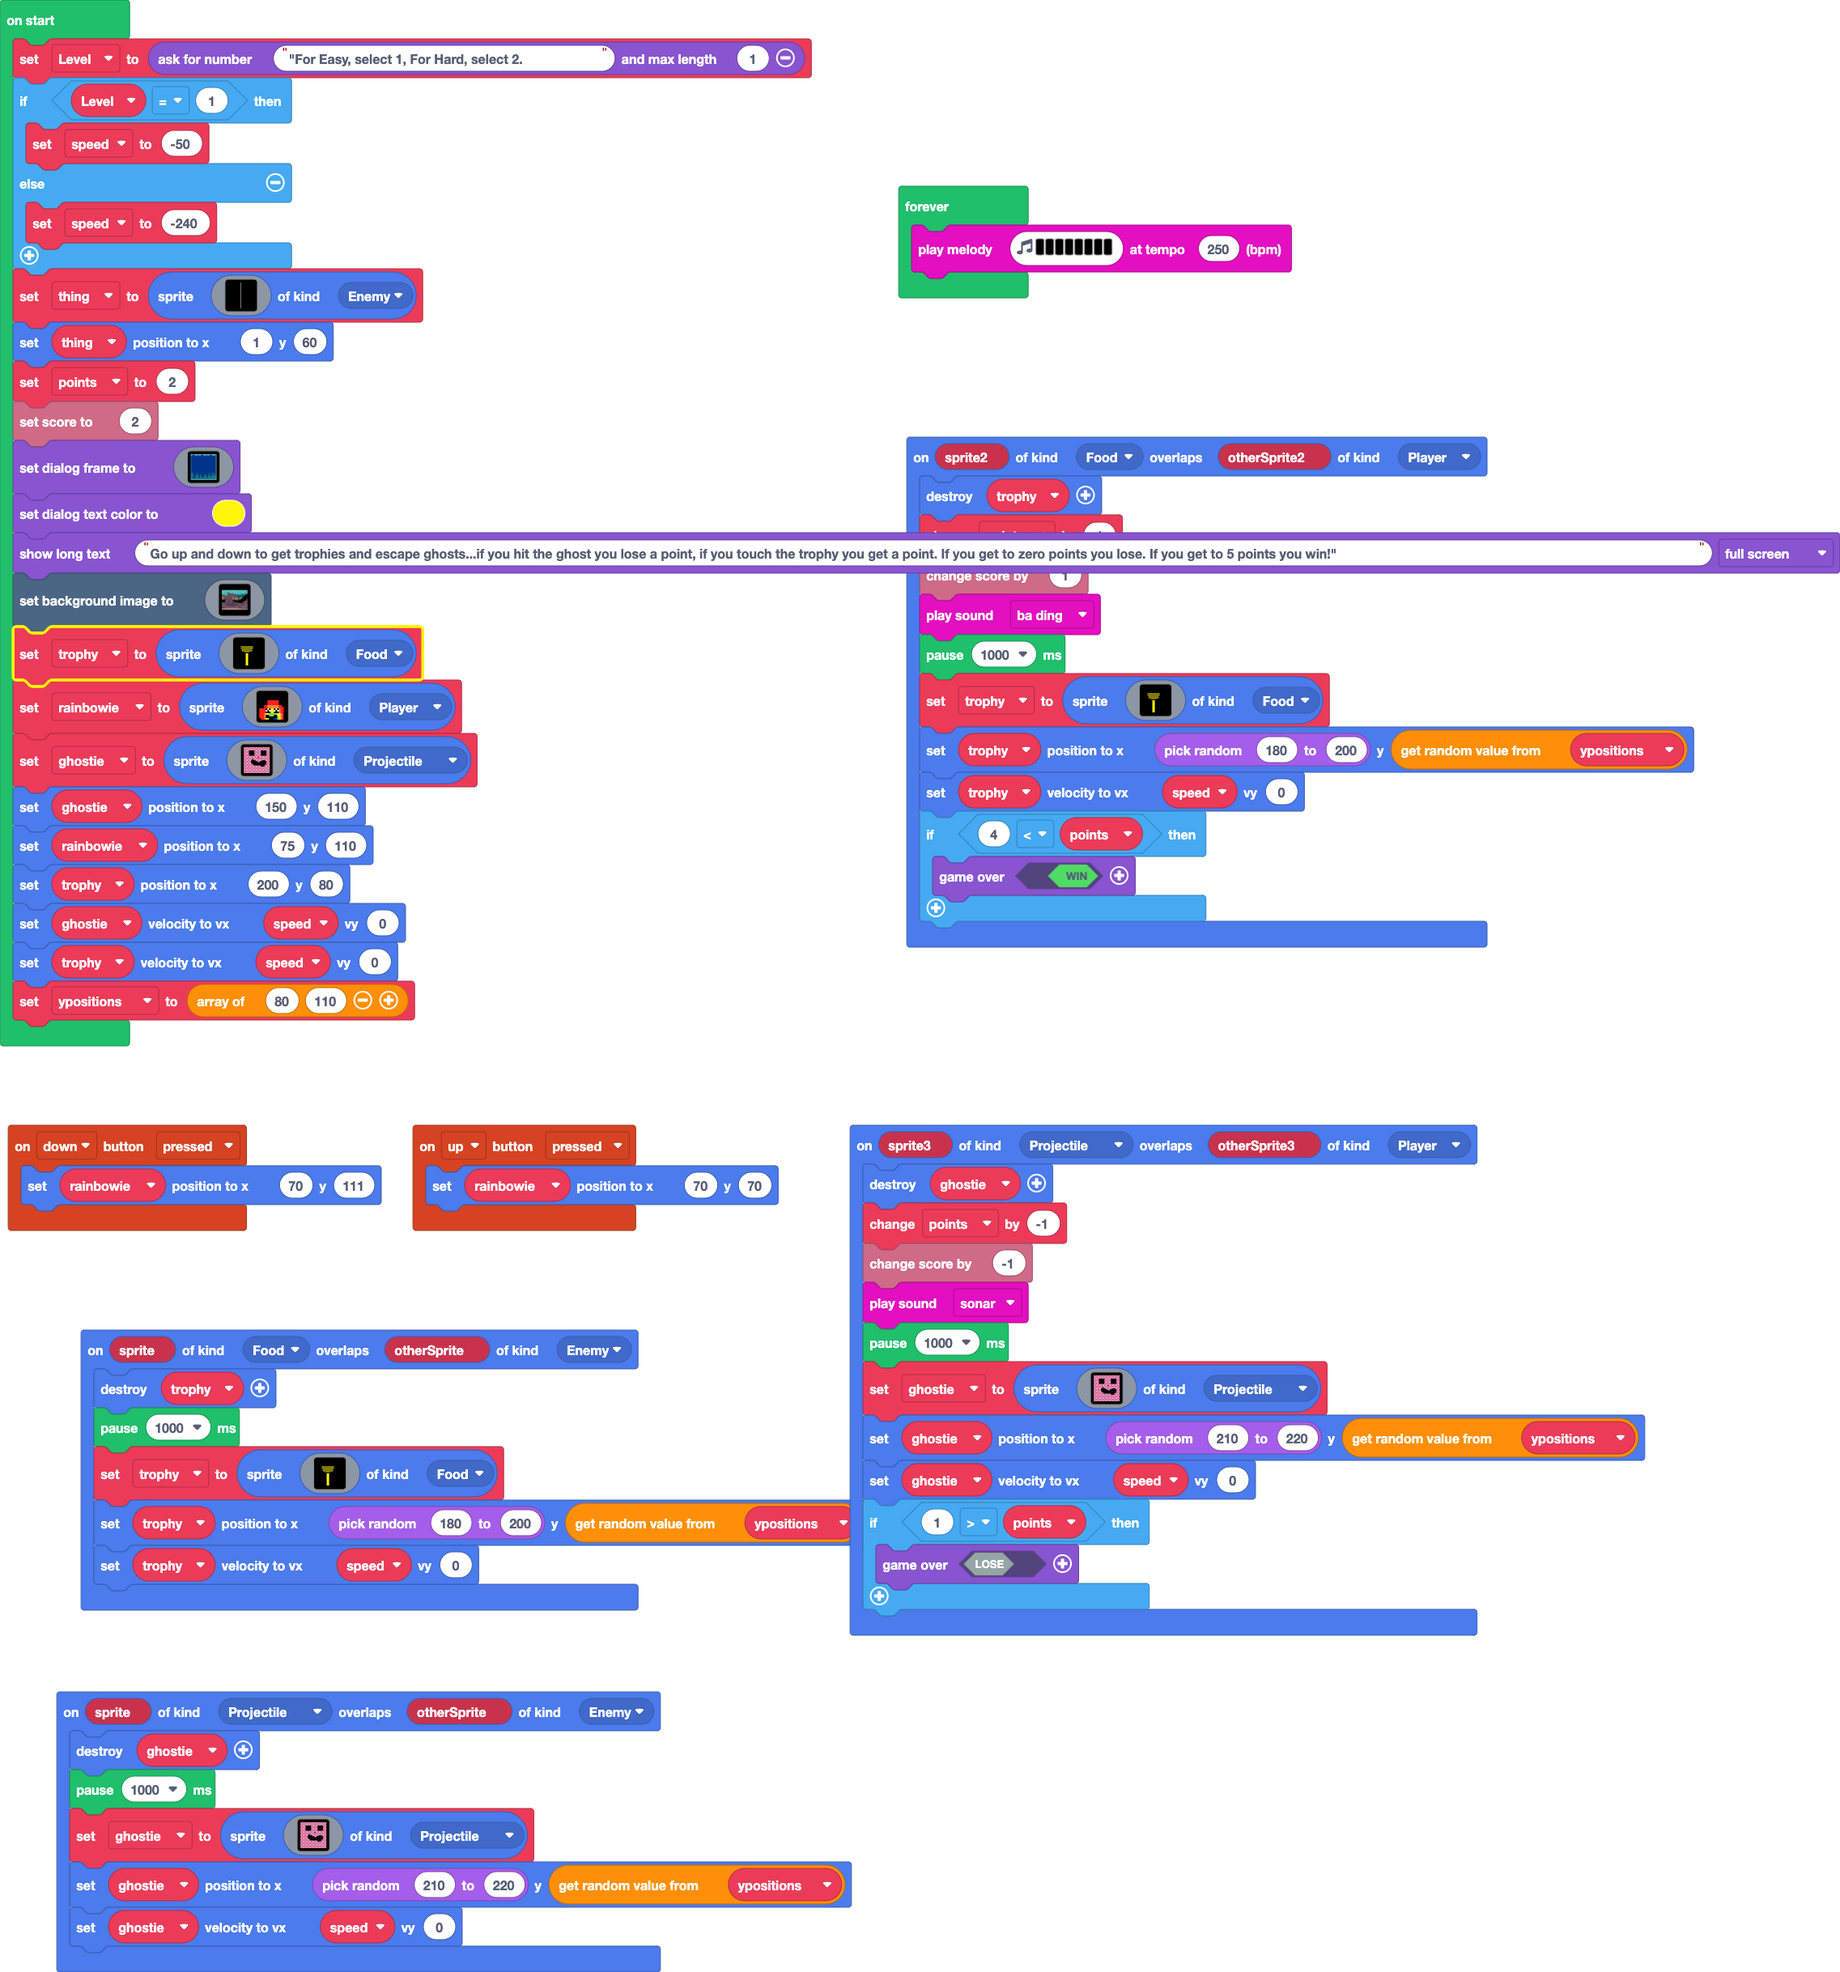
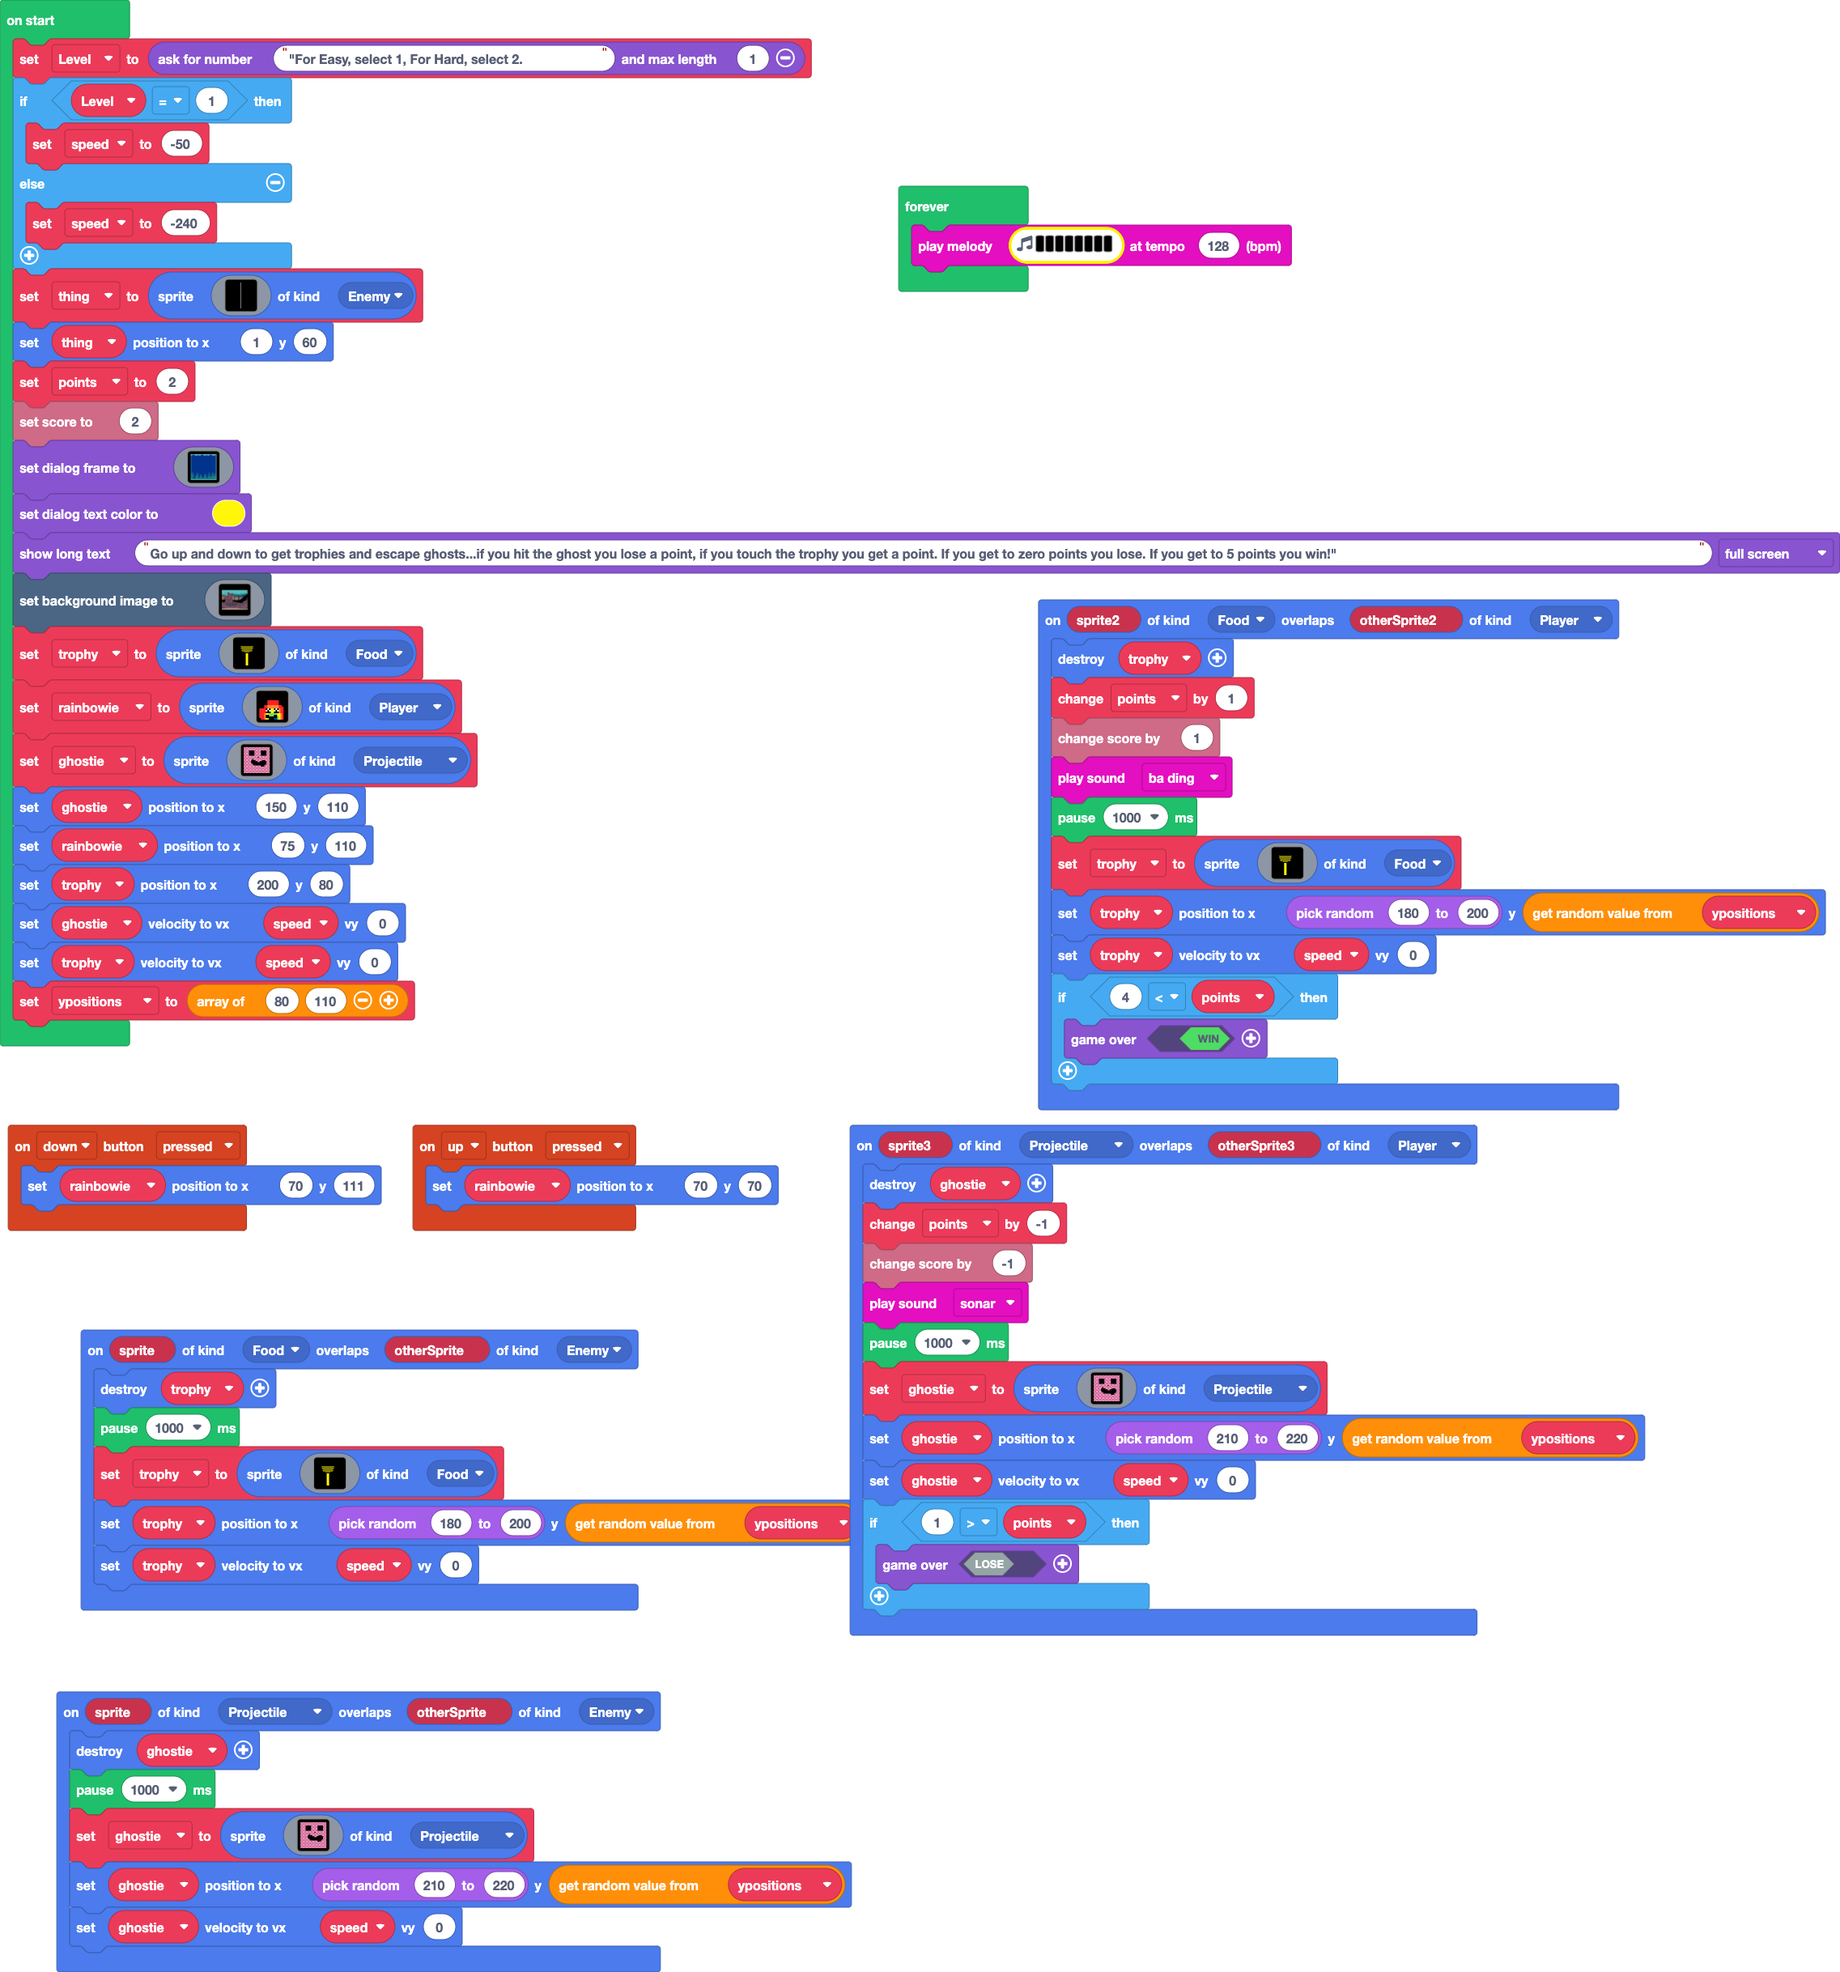
Update main.blocks, main.ts

Changed region(s): [[0.4685, 0.2184, 0.9996, 0.5616], [0.4998, 0.0936, 0.6872, 0.156]]

diff --git a/main.ts b/main.ts
@@ -856,5 +856,5 @@ ghostie.setVelocity(speed, 0)
 trophy.setVelocity(speed, 0)
 ypositions = [80, 110]
 forever(function () {
-    music.playMelody("C C E D - D - D ", 250)
+    music.playMelody("G G B B G E E B ", 128)
 })
